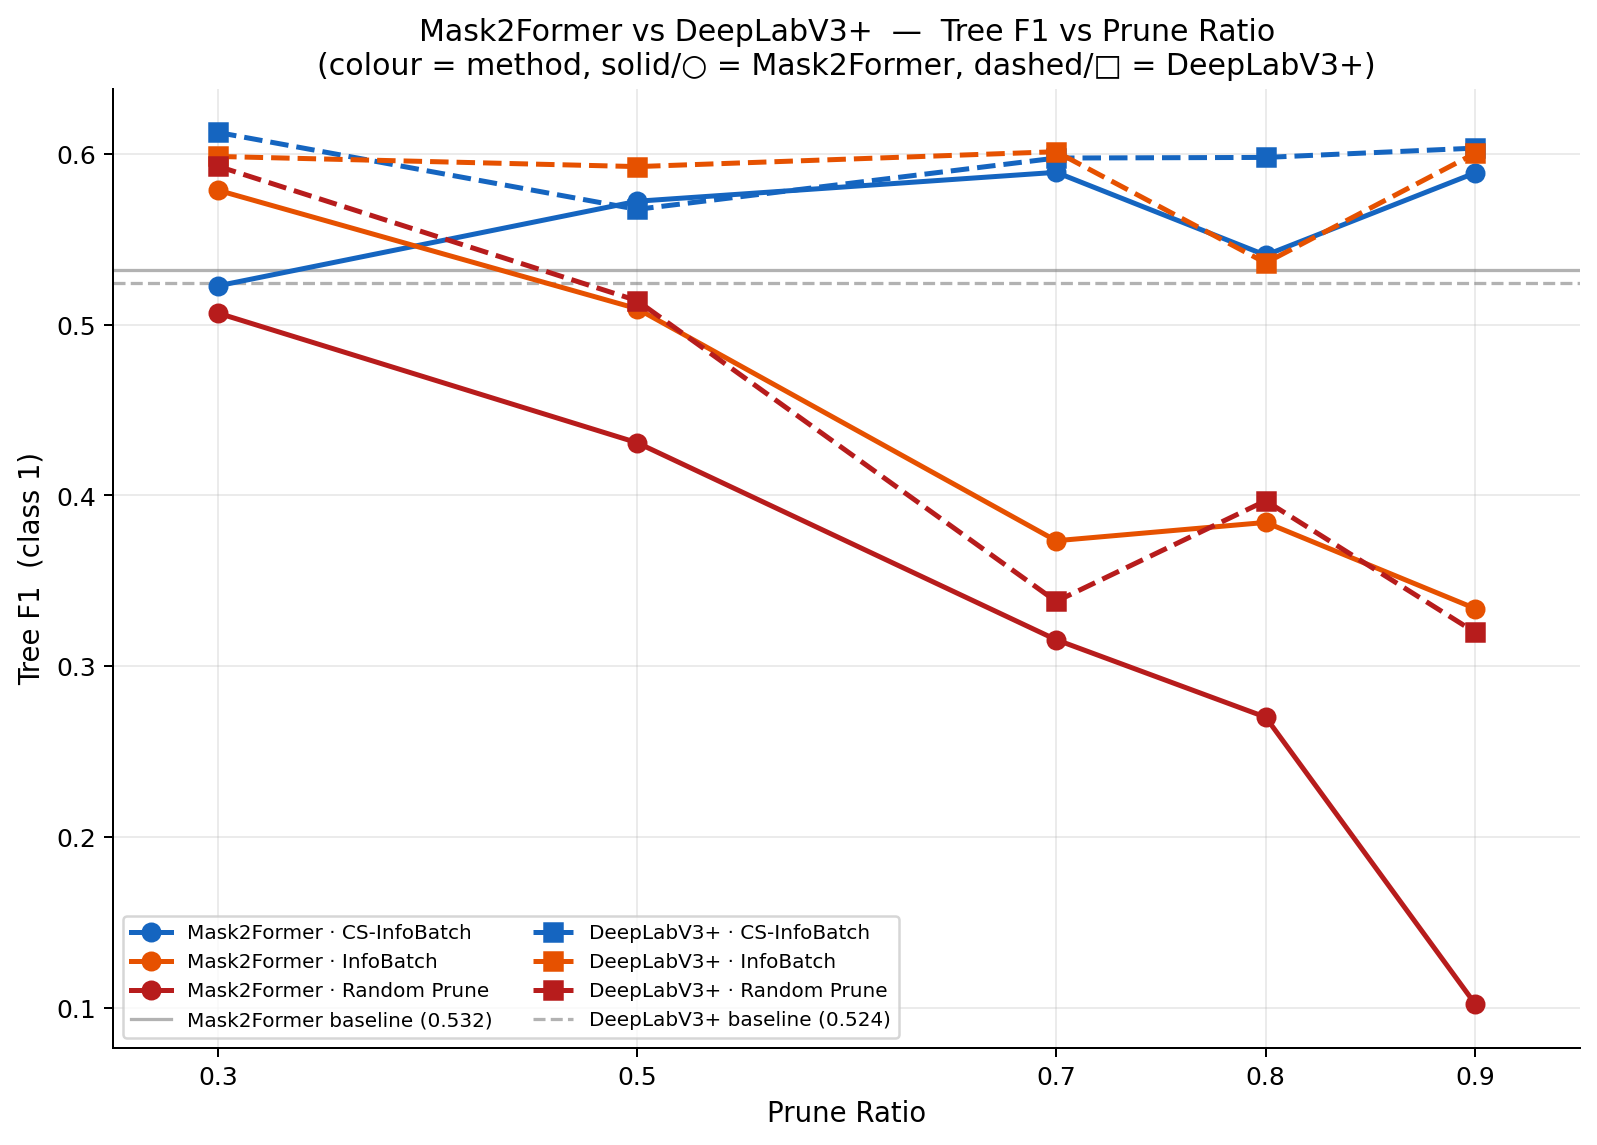
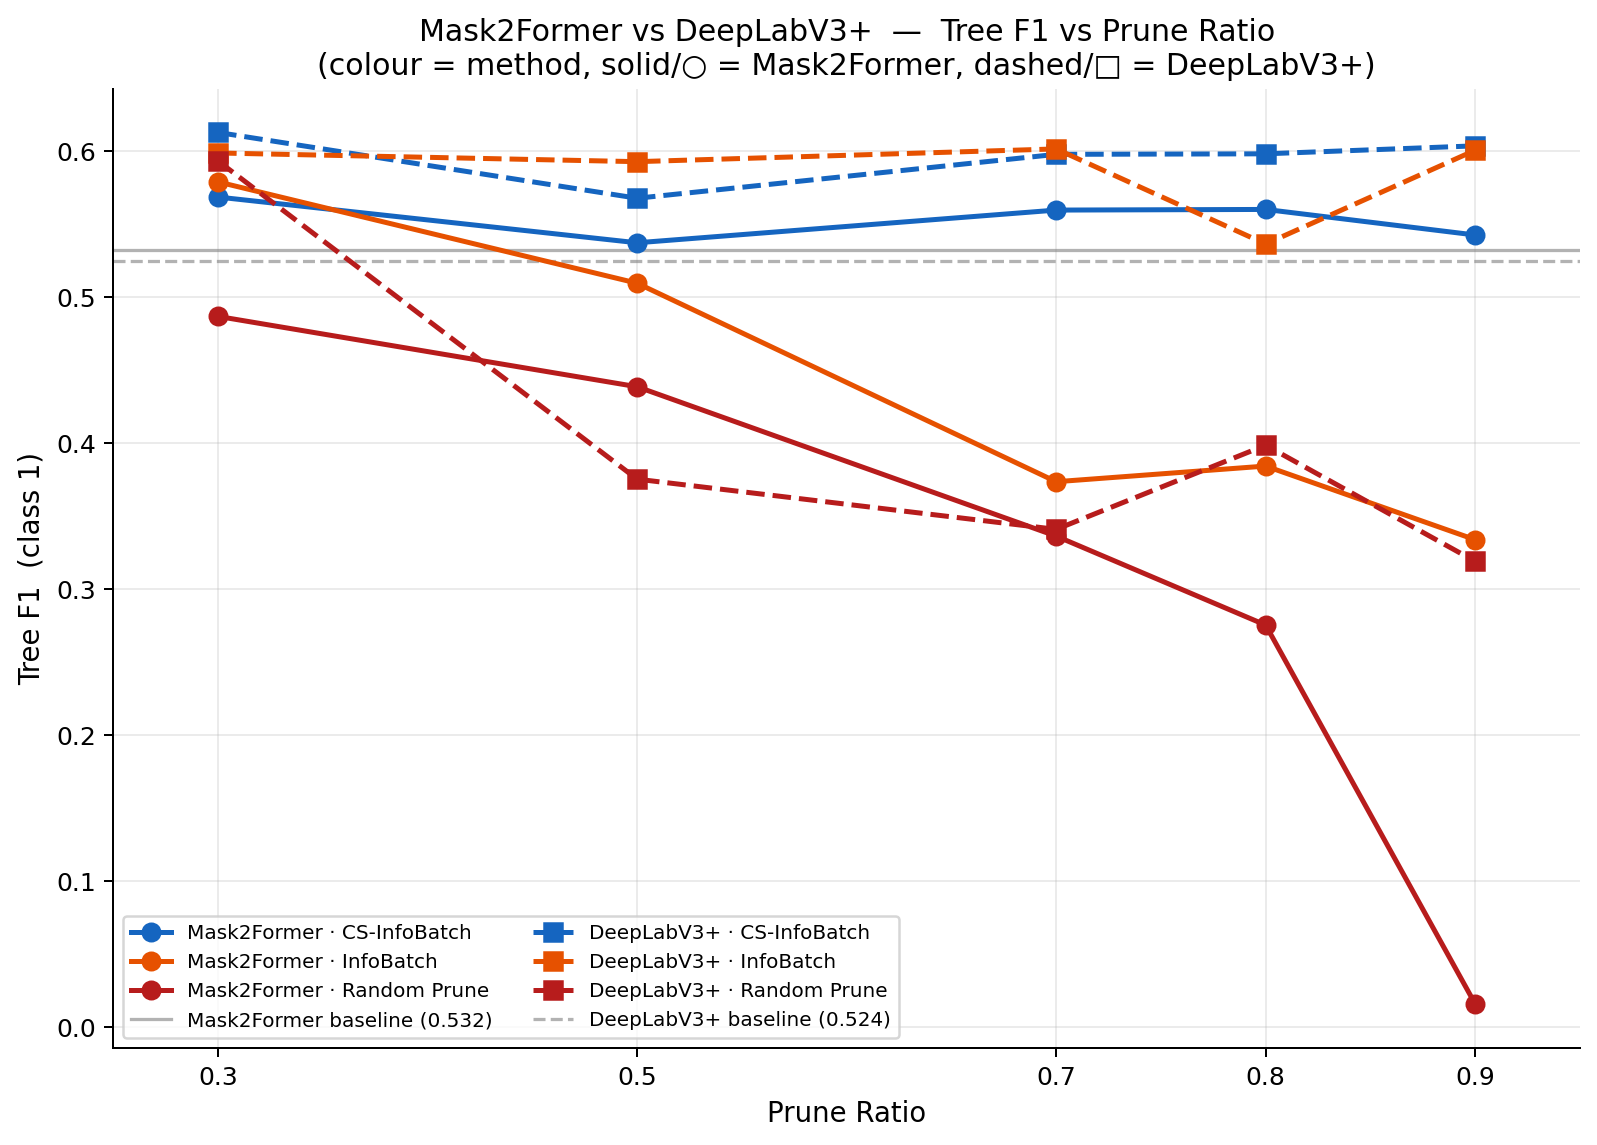
Added experiments

diff --git a/results_analysis/mask2former/results_table.tex b/results_analysis/mask2former/results_table.tex
@@ -9,25 +9,25 @@ Method & $\rho$ & F1$\uparrow$ & IoU$\uparrow$ & Prec. & Recall & Epochs & Time(
 \midrule
 Baseline & --- & 0.5323 & 0.3626 & 0.6257 & 0.4631 & 52 & 1.50 & --- \\
 \midrule
-CS-InfoBatch & 0.3 & 0.5227 & 0.3538 & 0.6232 & 0.4501 & 44 & 1.22 & -0.0095 \\
+CS-InfoBatch & 0.3 & 0.5683 & 0.3969 & 0.6140 & 0.5289 & 47 & 1.29 & +0.0360 \\
 InfoBatch & 0.3 & 0.5787 & 0.4071 & 0.6274 & 0.5370 & 66 & 1.48 & +0.0464 \\
-Random Prune & 0.3 & 0.5067 & 0.3393 & 0.5891 & 0.4445 & 52 & 1.15 & -0.0255 \\
+Random Prune & 0.3 & 0.4866 & 0.3215 & 0.5227 & 0.4551 & 89 & 1.86 & -0.0457 \\
 \midrule
-CS-InfoBatch & 0.5 & 0.5723 & 0.4008 & 0.6115 & 0.5378 & 62 & 1.59 & +0.0400 \\
+CS-InfoBatch & 0.5 & 0.5370 & 0.3671 & 0.6301 & 0.4679 & 47 & 1.26 & +0.0048 \\
 InfoBatch & 0.5 & 0.5093 & 0.3417 & 0.5817 & 0.4530 & 53 & 0.96 & -0.0229 \\
-Random Prune & 0.5 & 0.4308 & 0.2745 & 0.5545 & 0.3522 & 62 & 1.03 & -0.1014 \\
+Random Prune & 0.5 & 0.4384 & 0.2808 & 0.5330 & 0.3724 & 81 & 1.28 & -0.0938 \\
 \midrule
-CS-InfoBatch & 0.7 & 0.5892 & 0.4176 & 0.6001 & 0.5787 & 59 & 1.47 & +0.0569 \\
+CS-InfoBatch & 0.7 & 0.5594 & 0.3883 & 0.6015 & 0.5228 & 53 & 1.35 & +0.0271 \\
 InfoBatch & 0.7 & 0.3734 & 0.2296 & 0.4689 & 0.3102 & 53 & 0.73 & -0.1588 \\
-Random Prune & 0.7 & 0.3154 & 0.1872 & 0.3294 & 0.3025 & 50 & 0.56 & -0.2168 \\
+Random Prune & 0.7 & 0.3362 & 0.2020 & 0.4101 & 0.2848 & 58 & 0.61 & -0.1961 \\
 \midrule
-CS-InfoBatch & 0.8 & 0.5406 & 0.3705 & 0.6067 & 0.4876 & 79 & 1.75 & +0.0084 \\
+CS-InfoBatch & 0.8 & 0.5598 & 0.3887 & 0.6384 & 0.4985 & 55 & 1.36 & +0.0276 \\
 InfoBatch & 0.8 & 0.3841 & 0.2377 & 0.4981 & 0.3126 & 80 & 0.92 & -0.1481 \\
-Random Prune & 0.8 & 0.2701 & 0.1561 & 0.3221 & 0.2325 & 83 & 0.69 & -0.2622 \\
+Random Prune & 0.8 & 0.2753 & 0.1596 & 0.3291 & 0.2366 & 70 & 0.56 & -0.2570 \\
 \midrule
-CS-InfoBatch & 0.9 & 0.5889 & 0.4173 & 0.6571 & 0.5335 & 50 & 1.24 & +0.0566 \\
+CS-InfoBatch & 0.9 & 0.5423 & 0.3721 & 0.6665 & 0.4572 & 41 & 1.06 & +0.0101 \\
 InfoBatch & 0.9 & 0.3337 & 0.2003 & 0.3821 & 0.2962 & 89 & 0.84 & -0.1986 \\
-Random Prune & 0.9 & 0.1021 & 0.0538 & 0.1800 & 0.0713 & 100 & 0.56 & -0.4301 \\
+Random Prune & 0.9 & 0.0159 & 0.0080 & 0.0512 & 0.0094 & 39 & 0.22 & -0.5164 \\
 \bottomrule
 \end{tabular}
 \end{table}

diff --git a/results_analysis/deeplabv3/results_table.tex b/results_analysis/deeplabv3/results_table.tex
@@ -11,23 +11,23 @@ Baseline & --- & 0.5244 & 0.3554 & 0.6071 & 0.4616 & 39 & 0.68 & --- \\
 \midrule
 CS-InfoBatch & 0.3 & 0.6125 & 0.4415 & 0.6623 & 0.5697 & 43 & 0.72 & +0.0881 \\
 InfoBatch & 0.3 & 0.5985 & 0.4270 & 0.6109 & 0.5866 & 59 & 0.80 & +0.0741 \\
-Random Prune & 0.3 & 0.5927 & 0.4212 & 0.6529 & 0.5427 & 46 & 0.58 & +0.0683 \\
+Random Prune & 0.3 & 0.5930 & 0.4214 & 0.6276 & 0.5619 & 48 & 0.60 & +0.0685 \\
 \midrule
 CS-InfoBatch & 0.5 & 0.5675 & 0.3962 & 0.6062 & 0.5334 & 50 & 0.80 & +0.0431 \\
 InfoBatch & 0.5 & 0.5925 & 0.4210 & 0.6568 & 0.5397 & 53 & 0.58 & +0.0681 \\
-Random Prune & 0.5 & 0.5140 & 0.3459 & 0.5967 & 0.4515 & 65 & 0.61 & -0.0104 \\
+Random Prune & 0.5 & 0.3752 & 0.2309 & 0.5180 & 0.2941 & 45 & 0.42 & -0.1493 \\
 \midrule
 CS-InfoBatch & 0.7 & 0.5976 & 0.4261 & 0.6114 & 0.5844 & 54 & 0.82 & +0.0731 \\
 InfoBatch & 0.7 & 0.6013 & 0.4299 & 0.6484 & 0.5605 & 45 & 0.38 & +0.0768 \\
-Random Prune & 0.7 & 0.3379 & 0.2033 & 0.4212 & 0.2821 & 51 & 0.32 & -0.1865 \\
+Random Prune & 0.7 & 0.3408 & 0.2054 & 0.4644 & 0.2691 & 38 & 0.24 & -0.1836 \\
 \midrule
 CS-InfoBatch & 0.8 & 0.5979 & 0.4265 & 0.6430 & 0.5588 & 48 & 0.74 & +0.0735 \\
 InfoBatch & 0.8 & 0.5362 & 0.3663 & 0.6347 & 0.4641 & 34 & 0.25 & +0.0117 \\
-Random Prune & 0.8 & 0.3968 & 0.2475 & 0.4933 & 0.3319 & 37 & 0.17 & -0.1276 \\
+Random Prune & 0.8 & 0.3984 & 0.2487 & 0.5132 & 0.3256 & 50 & 0.23 & -0.1260 \\
 \midrule
 CS-InfoBatch & 0.9 & 0.6034 & 0.4320 & 0.6559 & 0.5586 & 55 & 0.80 & +0.0789 \\
 InfoBatch & 0.9 & 0.6004 & 0.4289 & 0.6429 & 0.5631 & 39 & 0.23 & +0.0759 \\
-Random Prune & 0.9 & 0.3197 & 0.1903 & 0.3589 & 0.2883 & 33 & 0.10 & -0.2047 \\
+Random Prune & 0.9 & 0.3189 & 0.1897 & 0.4014 & 0.2645 & 42 & 0.13 & -0.2055 \\
 \bottomrule
 \end{tabular}
 \end{table}
